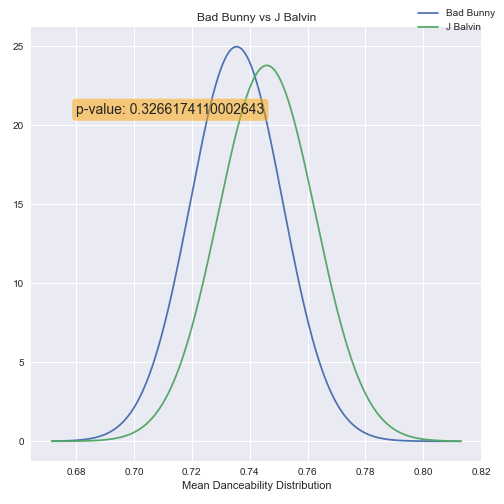
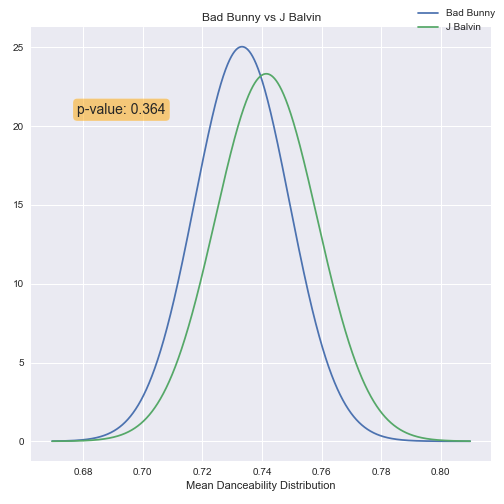
third rev:

diff --git a/src/Spotify.py b/src/Spotify.py
@@ -236,7 +236,7 @@ class Spotify():
             return 'Duration (min)'
         return ' '.join([metric.capitalize() for metric in metric.split("_")])
 
-    def Scatter(self, tracks, dependent='popularity', metrics=['explicit', 'danceability', 'energy', 'key', 'loudness', 'mode', 'speechiness', 'acousticness', 'instrumentalness', 'liveness', 'valence', 'tempo', 'duration'], labelize=False, save=False, nameAppend=""):
+    def Scatter(self, tracks, dependent='popularity', metrics=['explicit', 'danceability', 'energy', 'key', 'loudness', 'mode', 'speechiness', 'acousticness', 'instrumentalness', 'liveness', 'valence', 'tempo', 'duration'], labelize=False, save=False, sample=1, nameAppend=""):
         """Create various scatter plots for each metric
 
         Parameters
@@ -264,8 +264,9 @@ class Spotify():
         fig, axs = plt.subplots(len(metrics), figsize=(10, 6*len(metrics)))
 
         colors = np.random.rand(len(tracks), 3)
-        labels = tracks['name'].values
-        y = tracks[dependent].values
+        samples_indexes = np.random.choice(range(len(tracks[dependent].values)), replace=False, size=int(len(tracks[dependent].values) * sample))
+        labels = tracks['name'][samples_indexes].values
+        y = tracks[dependent][samples_indexes]
         legend_elements = []
         tracks_enum = enumerate([axs]) if len(metrics) == 1 else enumerate(axs.flatten())
 
@@ -274,11 +275,11 @@ class Spotify():
 
         for idx, ax in tracks_enum:
             if labelize:
-                ax.scatter(x=tracks[metrics[idx]], y=y, c=colors)
+                ax.scatter(x=tracks[metrics[idx]][samples_indexes], y=y, c=colors)
                 # for i in range(len(labels)):
                 #     ax.annotate(labels[i], (tracks[metrics[idx]][i], y[i]))
             else:
-                ax.scatter(x=tracks[metrics[idx]], y=y, alpha=0.1)
+                ax.scatter(x=tracks[metrics[idx]][samples_indexes], y=y, alpha=0.1)
 
             ax.set_ylabel(self.FormatMetric(dependent))
             ax.set_xlabel(self.FormatMetric(metrics[idx]))
@@ -289,7 +290,7 @@ class Spotify():
         fig.tight_layout()
 
         if save:
-            filename = f"../plots/popularity-vs-{'_'.join(metrics)}-{nameAppend}"
+            filename = f"../plots/{dependent}-vs-{'_'.join(metrics)}-{nameAppend}"
             fig.savefig(filename)
 
     def Hist(self, tracks, metrics=['popularity'], save=False, nameAppend="", labels=None, stacks=[], alpha=1):
@@ -347,6 +348,22 @@ class Spotify():
 
         if save:
             filename = f"../plots/popularity-hist-{nameAppend}"
+            fig.savefig(filename)
+
+    def BoxPlot(self, tracks, metrics=['popularity'], save=False, nameAppend="", showfliers=False, vert=False):
+        if isinstance(tracks, list):
+            tracks = pd.DataFrame(tracks)
+
+        fig, axs = plt.subplots(len(metrics), figsize=(7, 7*len(metrics)))
+        tracks_enum = enumerate([axs]) if len(metrics) == 1 else enumerate(axs.flatten())
+
+        for idx, ax in tracks_enum:
+            ax.boxplot(tracks[metrics[idx]], showfliers=showfliers, vert=vert)
+            ax.set_xlabel(self.FormatMetric(metrics[idx]))
+            ax.set_title(f'{self.FormatMetric(metrics[idx])}')
+        fig.tight_layout()
+        if save:
+            filename = f"../plots/{'_'.join(metrics)}-hist-{nameAppend}"
             fig.savefig(filename)
 
     def CatScatter(self, tracks, x='explicit', y='popularity', sample=0.2):
@@ -456,7 +473,7 @@ class Spotify():
         else:
             artists_norm_x = np.linspace(artist_two_tracks_pop_mean - (4 * artist_two_tracks_pop_ste), artist_one_tracks_pop_mean + (4 * artist_one_tracks_pop_ste), 100000)
 
-        pvalue = (stats.ttest_ind(artists[0]['analysis'][metric], artists[1]['analysis'][metric], equal_var=False).pvalue) / 2
+        pvalue = round((stats.ttest_ind(artists[0]['analysis'][metric], artists[1]['analysis'][metric], equal_var=False).pvalue) / 2, 3)
 
         fig, ax = plt.subplots(1, figsize=(7, 7))
         ax.text(0.1, 0.8, f'p-value: {pvalue}', fontsize=14, transform=ax.transAxes, bbox=dict(boxstyle='round', facecolor='orange', alpha=0.5))
@@ -472,6 +489,8 @@ class Spotify():
 
         return pvalue
 
+    def JointPlot(self, tracks, dependent="popularity", metric='danceability'):
+        sns.jointplot(x=metric, y=dependent, data=tracks, kind="hex")
 
 if __name__ == "__main__":
     spotify = Spotify()
@@ -484,4 +503,6 @@ if __name__ == "__main__":
     steezy_la_flame = spotify.GetTracksAnalysis('Bad Bunny')
     benji = spotify.GetTracksAnalysis('Mike Towers')
 
-    spotify.CompareArtistsCLT([benji, steezy_la_flame], labels=['6enji', 'SteezyLaFlame'])
+    steezy_la_flame['analysis']['popularity']
+
+    spotify.JointPlot(steezy_la_flame['analysis'])

diff --git a/src/__init__.py b/src/__init__.py
@@ -120,7 +120,6 @@ def GetTwoArtists(artist_one, artist_two, years=None, nofeatures=True, metric='p
 
     return artist_one, artist_two
 
-
 tracks_data = pd.read_csv('../data/tracks.csv')
 tracks_data['artists'] = tracks_data.apply(ArtistsFormatting, axis=1)
 tracks_data['duration'] = tracks_data['duration_ms'].apply(lambda x: x / 60000)
@@ -129,8 +128,15 @@ tracks_data.drop('id_artists', axis=1,inplace=True)
 tracks_data.drop('duration_ms', axis=1,inplace=True)
 
 
-spotify.Scatter(tracks_data, metrics=['explicit', 'danceability', 'duration'], save=True)
+spotify.Hist(tracks_data, metrics=['duration'])
 
+spotify.JointPlot(tracks_data, 'danceability', 'release_year')
+
+spotify.Scatter(tracks_data, metrics=['explicit', 'danceability', 'duration'], save=True, sample=0.01)
+
+spotify.BoxPlot(tracks_data, metrics=['danceability'], save=True, nameAppend="danceability", showfliers=False)
+
+spotify.Scatter(tracks_data, metrics=['explicit'])
 
 # <editor-fold> Popularity 0 vs Popularity Non 0
 
@@ -207,7 +213,7 @@ duration_norm_x = np.linspace(26.7, 27.8, 100000)
 fig, ax = plt.subplots(1, figsize=(7, 7))
 ax.plot(duration_norm_x, duration_ltefive_norm.pdf(duration_norm_x), label="Duration <= 5")
 ax.plot(duration_norm_x, duration_gtfive_norm.pdf(duration_norm_x), label="Duration > 5")
-duration_norm_pvalue = stats.ttest_ind(tracks_data[tracks_data['duration'] <= 5]['popularity'], tracks_data[tracks_data['duration'] > 5]['popularity'], equal_var=False).pvalue / 2
+duration_norm_pvalue = round(stats.ttest_ind(tracks_data[tracks_data['duration'] <= 5]['popularity'], tracks_data[tracks_data['duration'] > 5]['popularity'], equal_var=False).pvalue / 2, 3)
 ax.text(0.1, 0.8, f'p-value: {(duration_norm_pvalue)}', fontsize=14, transform=ax.transAxes, bbox=dict(boxstyle='round', facecolor='orange', alpha=0.5))
 ax.set_xlabel('Popularity')
 ax.set_title('Duration vs Popularity')
@@ -222,6 +228,7 @@ fig
 # </editor-fold>
 
 tracks_data_ltfive = tracks_data[tracks_data['duration'] <= 5].copy()
+
 # fix error in data
 tracks_data_ltfive.loc[tracks_data_ltfive['id'] == '74CSJTE5QQp1e4bHzm3wti', 'release_year'] = 2019
 
@@ -243,6 +250,9 @@ fig
 
 averages = tracks_data_ltfive.groupby('release_year').mean()
 
+averages_norm = averages / tracks_data_ltfive.groupby('release_year').count()
+
+spotify.Years(averages_norm, metrics=['explicit', 'popularity', 'danceability', 'duration'], sameax=False, save=True, nameAppend="plotted-together-years-norm")
 spotify.Years(averages, metrics=['explicit', 'popularity', 'danceability', 'duration'], sameax=False, save=True, nameAppend="plotted-together-years")
 # </editor-fold>
 
@@ -281,6 +291,10 @@ tracks_this_year_norm.ppf([0.025, 0.975])
 # Bootstrap in order to check confidence interval
 # H0: Drake popularity = G Herbo popularity
 # HA: Drake popularity > G Herbo
+
+GetTwoArtists('Kanye West', 'J Cole', metric='popularity', save=True, nofeatures=False)
+GetTwoArtists('XXX Tentacion', 'Juice World', metric='popularity', save=True, nofeatures=False)
+
 
 GetTwoArtists('Bad Bunny', 'J Balvin', metric='danceability', save=True, nofeatures=False)
 

diff --git a/README.md b/README.md
@@ -41,6 +41,14 @@ NOTE: The Spotify API auth key is also missing for security purposes. In order t
 
 ### Visualizing the Data
 
+![Release Year Amounts](./plots/release-year-hist-over-the-years.png)
+
+![Boxplot Duration](./plots/boxplot-duration.png)
+
+![Boxplot Danceability](./plots/boxplot-danceability.png)
+
+Note: The boxplots exclude outliers
+
 ![Change in Popularity Over Time](./plots/years-plotted-popularity.png)
 
 ![Change in Explicit Over Time](./plots/years-plotted-explicit.png)
@@ -91,23 +99,6 @@ NOTE: The Spotify API auth key is also missing for security purposes. In order t
 
 ![CLT for Duration](./plots/duration_popularity_clt_norm.png)
 
----
-
-## Confidence Intervals
-
-### Danceability in 2021
-
-![Hist of 2021 Danceability](./plots/popularity-hist-danceability-2021.png)
-
-* 95% Confidence Interval
-  * Lower Boundary: __0.657__
-  * Upper Boundary: __0.69__
-
-With 95% confidence I can say the mean danceability distribution for songs in 2021 is so far between 0.657 and 0.69. __It would be very surprising if by the end of the year the mean popularity was higher than 0.7__.
-
-![Hist of 2021 Danceability](./plots/danceability-2021.png)
-
----
 
 ## Spotfiy API
 
@@ -187,7 +178,7 @@ Below you'll find some sample tests I've conducted as well as their result
 
 ### Kanye West vs J Cole (Popularity)
 
-![Kanye vs J Cole](./plots/comparison-testing-popularity-J_Cole>Kanye_West-.png)
+![Kanye vs J Cole](./plots/comparison-testing-popularity-Kanye_West>J_Cole-.png)
 
 ##### __Fail to Reject Null Hypothesis__
 
